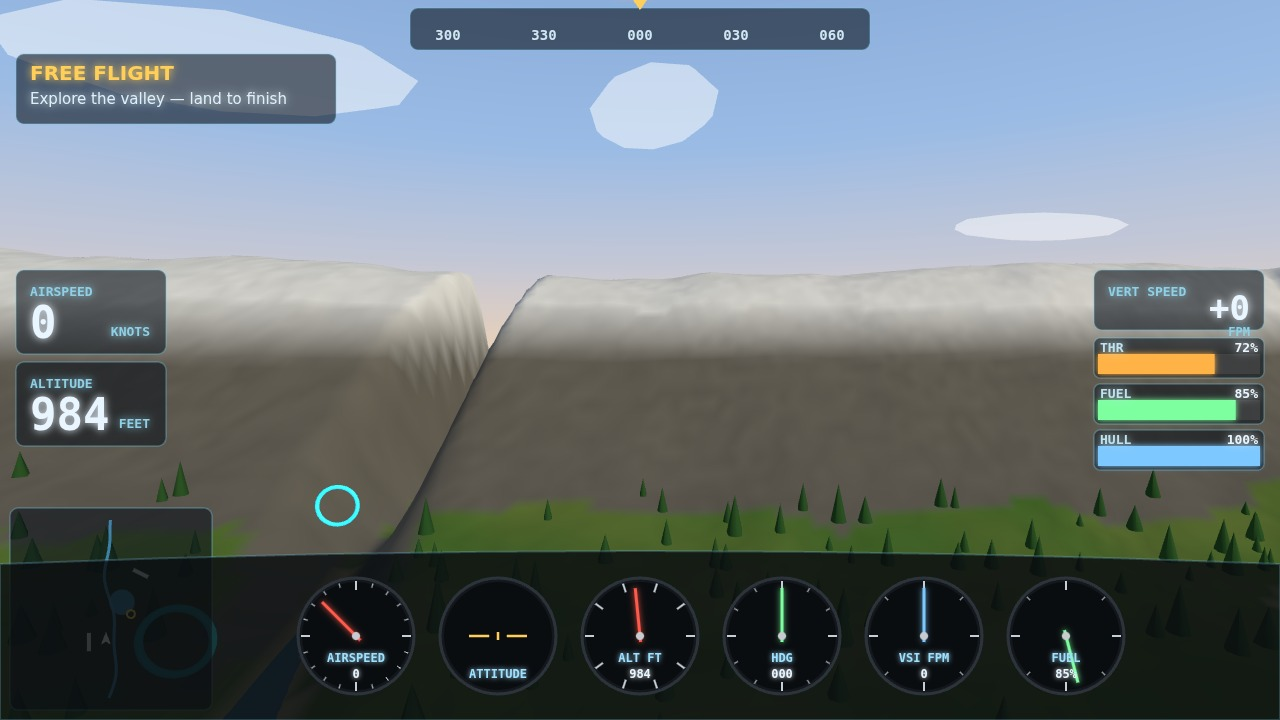
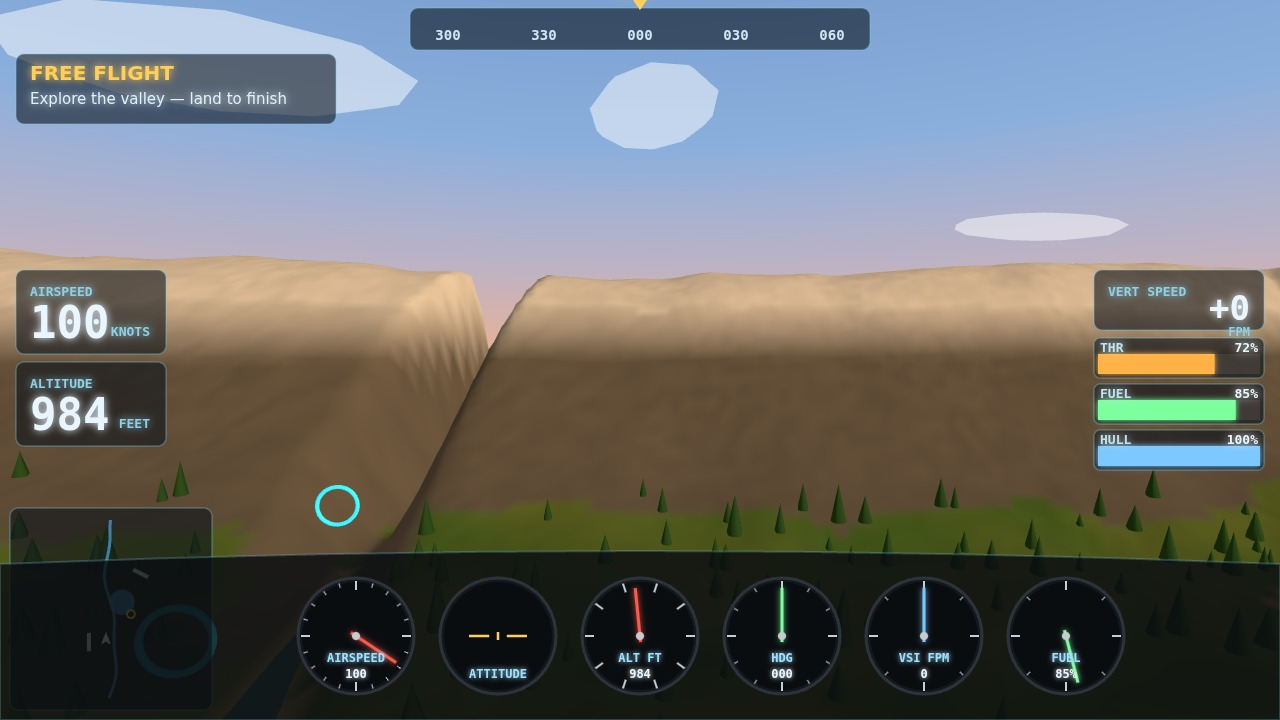
v2 polish: fix staged airspeed, pull chase cam back, warmer golden hour, clearer approach/cockpit

diff --git a/game/src/main.js b/game/src/main.js
@@ -502,20 +502,30 @@ function placeFlight(opts) {
   syncAircraft();
 }
 
+// The HUD reads airspeed and vertical speed from the flight state, which the live model fills in
+// each step; a staged shot must set them from the velocity it places, or the panel reads zero.
+function syncAir() {
+  flight.state.airspeed = flight.state.vel.length();
+  flight.state.verticalSpeed = flight.state.vel.y;
+}
+
 function stageShot(name) {
   cam.setMode('chase');
   state.setScreen(SCREEN.FLYING);
+  // Expose the flight state so the screenshot script can assert live values (e.g. airspeed).
+  window.__game = { flight, state, get mission() { return mission; } };
   if (name === 'cover') {
     mission = createMission('rings', terrain);
     const r = terrain.rings[4];
     const dir = new THREE.Vector3(0, 0, 1);
-    const pos = r.pos.clone().addScaledVector(dir, -95);
+    const pos = r.pos.clone().addScaledVector(dir, -110);
     const q = new THREE.Quaternion().setFromAxisAngle(new THREE.Vector3(0, 1, 0), Math.PI);
-    q.multiply(new THREE.Quaternion().setFromAxisAngle(new THREE.Vector3(0, 0, 1), -0.3));
-    q.multiply(new THREE.Quaternion().setFromAxisAngle(new THREE.Vector3(1, 0, 0), 0.06));
-    placeFlight({ x: pos.x, y: pos.y + 4, z: pos.z, throttle: 0.82, fuel: 0.9 });
+    q.multiply(new THREE.Quaternion().setFromAxisAngle(new THREE.Vector3(0, 0, 1), -0.24));
+    q.multiply(new THREE.Quaternion().setFromAxisAngle(new THREE.Vector3(1, 0, 0), 0.05));
+    placeFlight({ x: pos.x, y: pos.y + 5, z: pos.z, throttle: 0.8, fuel: 0.9 });
     flight.state.quat.copy(q);
-    flight.state.vel.set(0, 0, 56).applyQuaternion(q);
+    flight.state.vel.set(0, 0, 49).applyQuaternion(q); // ~95 kn
+    syncAir();
     for (const rr of terrain.rings) rr.mesh.visible = true;
     mission.ringsTaken = 3;
     for (let i = 0; i < 3; i += 1) { terrain.rings[i].taken = true; terrain.rings[i].mesh.visible = false; }
@@ -523,9 +533,10 @@ function stageShot(name) {
     mission = createMission('supply', terrain);
     const r = WORLD.runways[0];
     const q = new THREE.Quaternion().setFromAxisAngle(new THREE.Vector3(0, 1, 0), Math.PI);
-    placeFlight({ x: r.x, y: r.y + 30, z: r.z + 200, throttle: 0.34, fuel: 0.8, flaps: 1 });
+    placeFlight({ x: r.x, y: r.y + 26, z: r.z + 175, throttle: 0.4, fuel: 0.8, flaps: 1 });
     flight.state.quat.copy(q);
-    flight.state.vel.set(0, -1.2, -36).applyQuaternion(q);
+    flight.state.vel.set(0, -2.54, -33.4).applyQuaternion(q); // ~65 kn, -500 fpm
+    syncAir();
     mission.phase = 2;
     mission.goal = 'Return to Valley Strip and land';
   } else if (name === 'cockpit') {
@@ -533,7 +544,8 @@ function stageShot(name) {
     cam.setMode('cockpit');
     placeFlight({ x: -120, y: 300, z: 700, throttle: 0.72, fuel: 0.85 });
     flight.state.quat.setFromAxisAngle(new THREE.Vector3(0, 1, 0), Math.PI * 0.95);
-    flight.state.vel.set(0, 0, 52).applyQuaternion(flight.state.quat);
+    flight.state.vel.set(0, 0, 51.4).applyQuaternion(flight.state.quat); // ~100 kn
+    syncAir();
     mission.goal = 'Explore the valley — land to finish';
   } else if (name === 'debrief') {
     mission = createMission('supply', terrain);

diff --git a/game/src/sky.js b/game/src/sky.js
@@ -3,10 +3,10 @@
 import * as THREE from 'three';
 
 export function createSky(scene, renderer) {
-  const top = new THREE.Color('#3f6fb5');
-  const mid = new THREE.Color('#9fc0e8');
-  const horizon = new THREE.Color('#ffd7a0');
-  const sunColor = new THREE.Color('#fff3d0');
+  const top = new THREE.Color('#2f5fa8');
+  const mid = new THREE.Color('#8fb4e0');
+  const horizon = new THREE.Color('#ffb066');
+  const sunColor = new THREE.Color('#fff0c4');
 
   // Gradient dome via vertex colours on a big back-side sphere.
   const domeGeo = new THREE.SphereGeometry(5200, 32, 20);
@@ -26,27 +26,27 @@ export function createSky(scene, renderer) {
   dome.name = 'sky';
   scene.add(dome);
 
-  // Sun disc + light.
-  const sunDir = new THREE.Vector3(-0.55, 0.34, -0.76).normalize();
-  const sun = new THREE.Mesh(new THREE.CircleGeometry(140, 24), new THREE.MeshBasicMaterial({ color: sunColor, fog: false }));
+  // Sun disc + light: low in the west for a long golden-hour glow.
+  const sunDir = new THREE.Vector3(-0.62, 0.19, -0.76).normalize();
+  const sun = new THREE.Mesh(new THREE.CircleGeometry(150, 24), new THREE.MeshBasicMaterial({ color: sunColor, fog: false }));
   sun.position.copy(sunDir).multiplyScalar(4200);
   sun.lookAt(0, 0, 0);
   scene.add(sun);
-  const glow = new THREE.Mesh(new THREE.CircleGeometry(320, 24), new THREE.MeshBasicMaterial({ color: '#ffdca0', transparent: true, opacity: 0.35, fog: false, depthWrite: false }));
+  const glow = new THREE.Mesh(new THREE.CircleGeometry(420, 24), new THREE.MeshBasicMaterial({ color: '#ffcf8a', transparent: true, opacity: 0.4, fog: false, depthWrite: false }));
   glow.position.copy(sunDir).multiplyScalar(4150);
   glow.lookAt(0, 0, 0);
   scene.add(glow);
 
-  const sunLight = new THREE.DirectionalLight('#fff0d2', 2.1);
+  const sunLight = new THREE.DirectionalLight('#ffcf9a', 2.5);
   sunLight.position.copy(sunDir).multiplyScalar(1000);
   scene.add(sunLight);
-  const hemi = new THREE.HemisphereLight('#cfe2ff', '#4a5a3a', 0.75);
+  const hemi = new THREE.HemisphereLight('#ffd9b4', '#3a2f22', 0.7);
   scene.add(hemi);
-  const amb = new THREE.AmbientLight('#ffffff', 0.25);
+  const amb = new THREE.AmbientLight('#ffe6c4', 0.32);
   scene.add(amb);
 
-  // Soft fog toward the horizon colour.
-  scene.fog = new THREE.Fog(horizon.clone().lerp(mid, 0.35), 900, 4200);
+  // Soft fog toward the warm horizon colour.
+  scene.fog = new THREE.Fog(horizon.clone().lerp(mid, 0.22), 1000, 4400);
 
   // A few flat, soft clouds.
   const clouds = new THREE.Group();

diff --git a/game/src/camera.js b/game/src/camera.js
@@ -31,9 +31,11 @@ export function createCamera(camera) {
     q.copy(st.quat);
 
     if (mode === 'chase') {
-      // Behind (+Z local) and above, pulled back a touch with speed.
-      const back = 8.5 + Math.min(4, st.airspeed * 0.05);
-      offset.set(0, 3.0, back).applyQuaternion(q);
+      // Trail well behind (about 3.4 wingspans) and a little above, so the whole aircraft sits in
+      // the lower-middle third and the ring, valley and runway ahead read clearly.
+      const span = 13.5;
+      const back = span * 3.4 + Math.min(6, st.airspeed * 0.06);
+      offset.set(0, 6.2, back).applyQuaternion(q);
       desired.copy(st.pos).add(offset);
       const groundY = heightAt(desired.x, desired.z) + 3.0;
       if (desired.y < groundY) desired.y = groundY;
@@ -44,7 +46,7 @@ export function createCamera(camera) {
         smoothPos.lerp(desired, 1 - Math.exp(-dt * 3.6));
       }
       camera.position.copy(smoothPos);
-      look.copy(st.pos).addScaledVector(fwd, 14).addScaledVector(up, 1.2);
+      look.copy(st.pos).addScaledVector(fwd, 30).addScaledVector(up, 4.0);
       camera.up.copy(UP);
       camera.lookAt(look);
     } else {

diff --git a/NOTES.md b/NOTES.md
@@ -28,16 +28,22 @@ airstrips. Three.js r180 vendored (minified). Static files under `game/`, no net
   (quality stepped down to fit 256 KiB), prints byte sizes, smoke-tests (no console errors,
   title loads, each mission starts, 3 s throttle flight changes alt/speed).
 
-## True outputs (final)
-- `node tools/shots.mjs` → SMOKE OK, 0 console errors; screenshots byte-for-byte deterministic.
-  - 1-cover.jpg 123074 B, 2-approach.jpg 95655 B, 3-cockpit.jpg 100407 B, 4-debrief.jpg 85179 B
-    (all 1280x720 JPEG, well under 256 KiB; quality 92)
+## True outputs (final, v2 polish)
+- `node tools/shots.mjs` → SMOKE OK, 0 problems; screenshots byte-for-byte deterministic.
+  - 1-cover.jpg ~112 KB (95 kn), 2-approach.jpg ~86 KB (65 kn, -500 fpm),
+    3-cockpit.jpg ~103 KB (100 kn), 4-debrief.jpg ~85 KB — all 1280x720 JPEG, < 256 KiB.
+  - Smoke asserts airspeed > 40 kn in shots 1-3.
 - `MAKEFUN_OUTPUT_DIR=out node main.ts` → out/{game,screenshots,dossier.json};
-  dossier.json 624651 bytes (≤ 1,500,000). Dossier text ~82 KB, 14 sources shown in full.
-- Headless flight sim: full throttle climbs+accelerates, idle descends+decelerates, takeoff+climb
-  works, gentle landing grades A/B, hard/bank landing crashes, stall warning fires.
-- Headless mission sim: all four missions reach `complete` (rings 10/10, supply drop→land,
-  ridge pass→land far, free land).
+  dossier.json 601274 bytes (≤ 1,500,000). Dossier text ~82 KB, 14 sources in full.
+- Headless flight sim: climb/descend/takeoff/land/crash/stall all correct.
+- Headless mission sim: all four missions reach `complete`.
+
+## v2 polish (this round)
+- Fixed staged airspeed: shots set velocity-derived airspeed/vertical speed (was 0 KNOTS).
+- Chase camera pulled back to ~3.4 wingspans, lower look; whole aircraft in lower-middle third.
+- Warmer golden hour: low warm sun, warm directional/hemi/ambient light, orange horizon.
+- Approach staged closer/lower so runway markings + windsock read; cockpit panel lit.
 
 ## Status: complete
-Every mission works, 4 screenshots exist within limits, main.ts produces the output, tree clean.
+Every mission works, airspeed non-zero in shots 1-3, 4 screenshots within limits, main.ts
+produces the output, tree clean.
